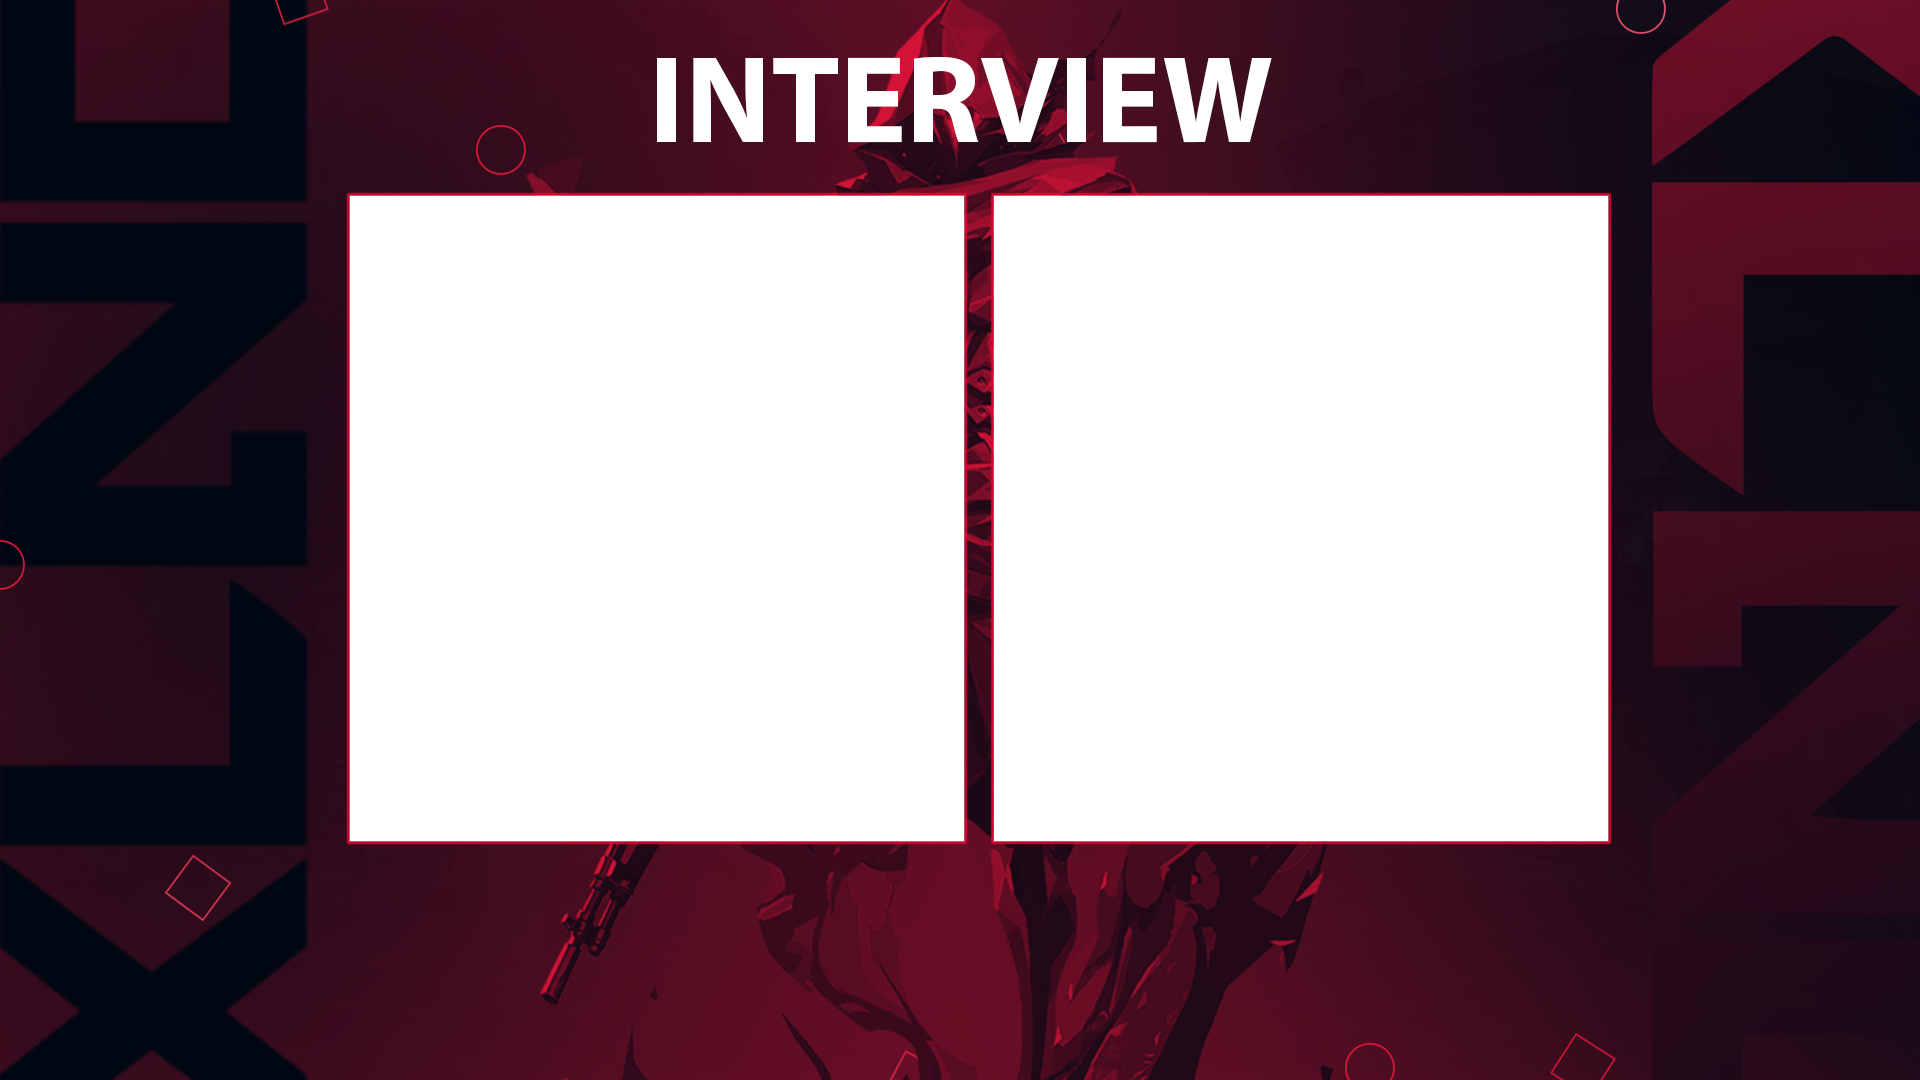
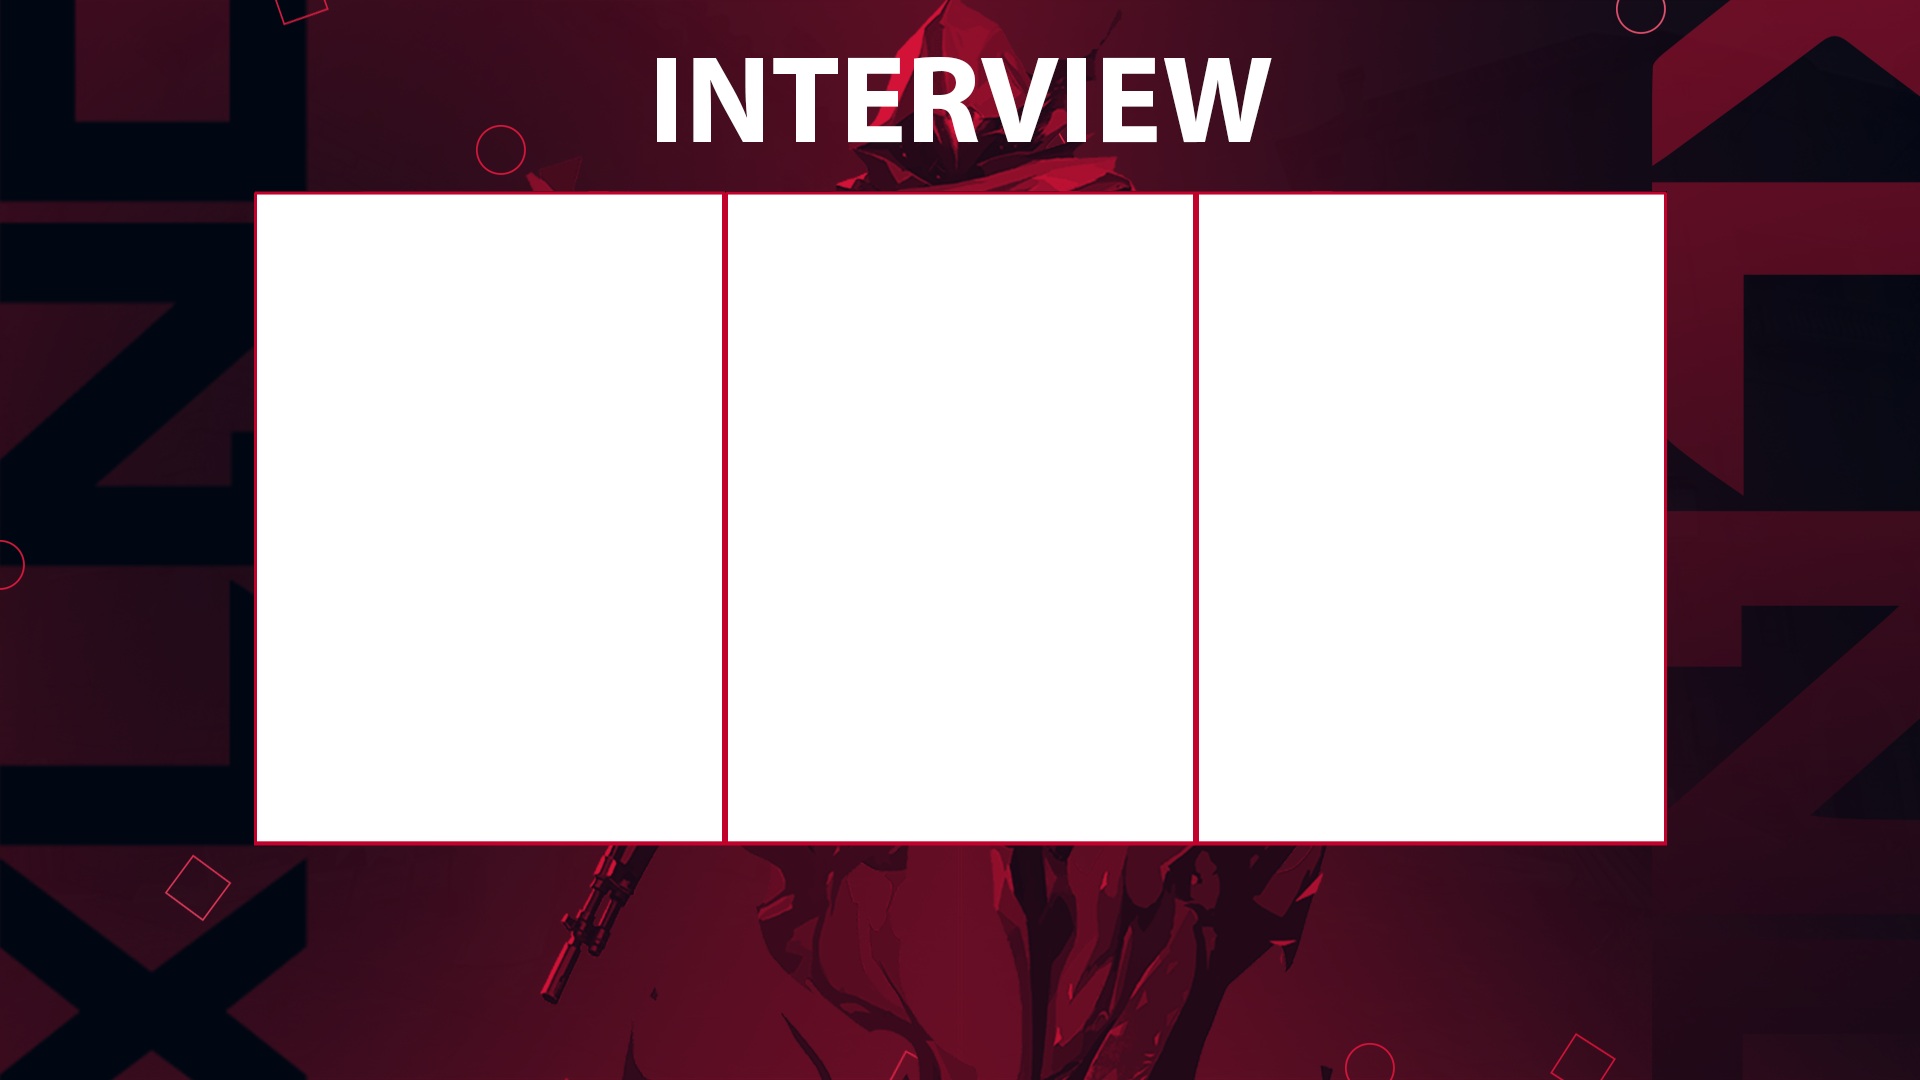
Interview now 3 peeps

diff --git a/bundles/xlnc_bundle/graphics/Interview.css b/bundles/xlnc_bundle/graphics/Interview.css
@@ -10,37 +10,40 @@ body {
 
 #leftCaster {
     position: absolute;
+    top: 849px;
+    left: 274px;
+    width: 430px;
+    height: 89px;
     text-align: center;
-    left: 500px;
-    top: 800px;
-    width: 400px;
-    font: 25px Impact;
+    font: normal normal normal 73px/89px Impact;
+    color: #FFFFFF;
     -webkit-text-stroke-color: black;
     -webkit-text-stroke-width: .7px;
 }
 
 #rightCaster {
     position: absolute;
+    top: 849px;
+    left: 1194px;
+    width: 472px;
+    height: 89px;
     text-align: center;
-    left: 1020px;
-    top: 800px;
-    width: 400px;
-    font: 25px Impact;
+    font: normal normal normal 73px/89px Impact;
+    color: #FFFFFF;
     -webkit-text-stroke-color: black;
     -webkit-text-stroke-width: .7px;
 }
 
 #interviewee {
     position: absolute;
-    top: 867px;
-    left: 1101px;
-    width: 394px;
+    top: 844px;
+    left: 726px;
+    width: 469px;
     height: 98px;
     text-align: center;
-    font: normal normal normal 80px/98px Impact;
-    letter-spacing: 0px;
-    color: #FFFFFF;
+    font: normal normal normal 73px/89px Impact;
     opacity: 1;
+    color: #FFFFFF;
     -webkit-text-stroke-color: black;
     -webkit-text-stroke-width: 2px;
 }

diff --git a/bundles/xlnc_bundle/graphics/Interview.html b/bundles/xlnc_bundle/graphics/Interview.html
@@ -12,7 +12,7 @@
         <div class="caster" id="leftCaster">CASTER L</div>
         <div class="caster" id="rightCaster">CASTER R</div>
 
-        <div class="name" id="interviewee">Interviewee</div>
+        <div class="name" id="interviewee">INTERVIEWEE</div>
 
     </div>
 
